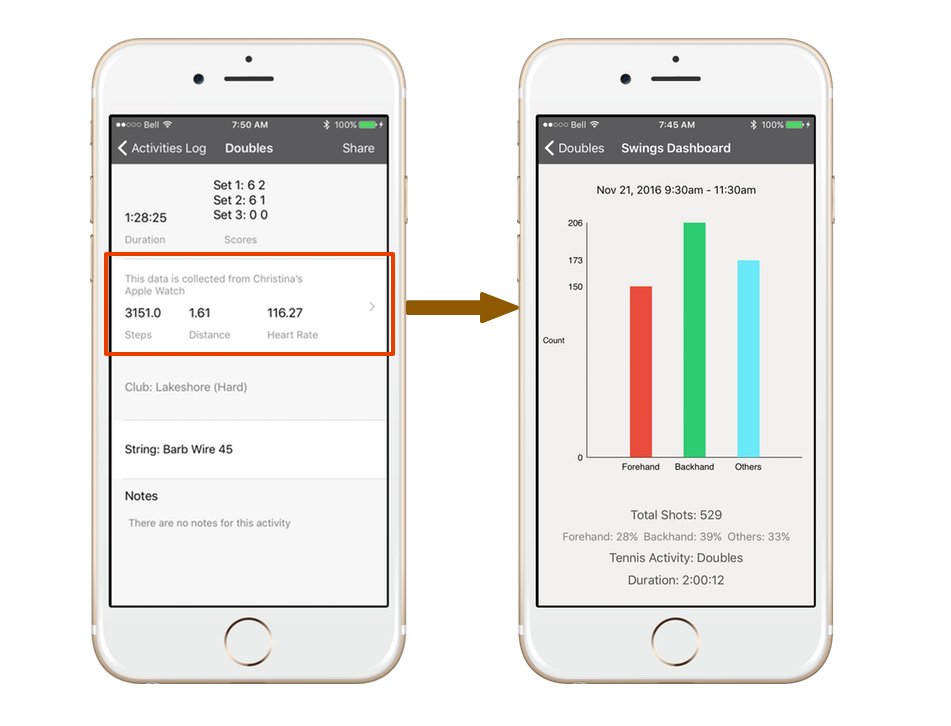
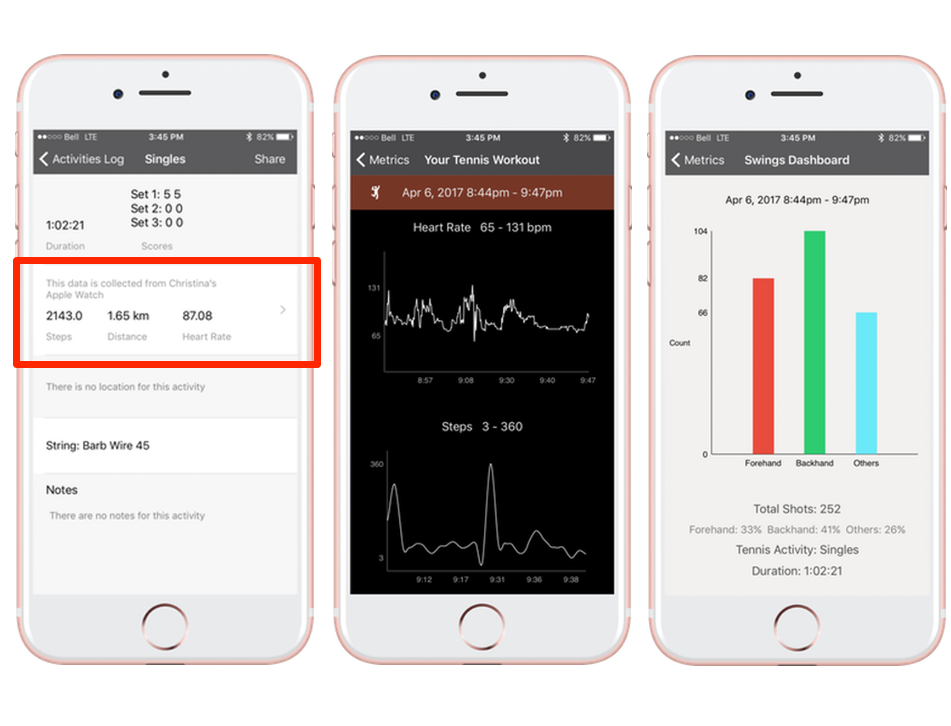
fix

diff --git a/support/applewatch.html b/support/applewatch.html
@@ -96,7 +96,7 @@
                         <h3>Using your Apple Watch</h3>
                             <p class="lead">
                             You can start and save your tennis activities, track distance, steps and heart rate on the tennis court, all directly from your Apple Watch.
-                            The new Device Motion framework introduced in watchOS 3 allow you to count your tennis swings
+                            The new Device Motion framework introduced in watchOS 3 allows you to count your tennis swings
                             based on your arm swinging motion that can be detected by the Apple Watch built-in sensors.
 
                             <br/>
@@ -128,13 +128,15 @@
                             <li>After you saved your tennis session, you can open the app on your iPhone or iPad and the session will automatically be added. You can complete the rest of the tennis information such as your scores, player names etc. from your iOS device. 
                             </ol>
 
-                            <h3>Swings Dashboard</h3>
-                            <p class="lead">To review your tennis swings breakdown, you must purchase the Pro Edition. 
+                            <h3>Tennis Workout Dashboard</h3>
+                            <p class="lead">To review your tennis workout metrics, you must upgrade to the 
+                                <a href="proedition.html">Pro Edition</a>. 
                             </p>
                             <ol class="lead">
                             <li>Go to <b>Stats</b> > <b>Activities Log</b>.
                             <li>Select the date and go to the second page. 
-                            <li>Tap the row that shows your heart rate, steps and distance information to bring up the Swings Dashboard.
+                            <li>Tap the row that shows your heart rate, steps and distance information to bring up 
+                                <i>Your Swings</i> or <i>Your Tennis Workout</i> Dashboard.
                             </ol>
                            
                             <img class="img-responsive" src="../img/swings_dashboard.png" alt="Tennis Swings">
